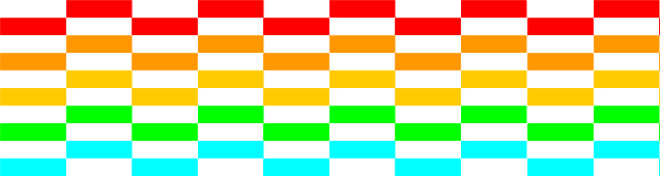
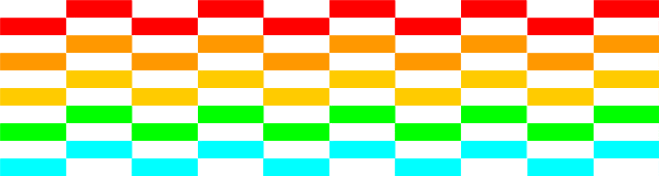
final picture?

diff --git a/20 Problem sets/30 Breakout/10 Breakout!.md b/20 Problem sets/30 Breakout/10 Breakout!.md
@@ -126,7 +126,7 @@ other brick. This extra complexity is more than compensated by the fact that
 there are the same number of bricks in each row, and that you don't have to change
 the coordinate calculation from row to row.
 
-![](breakout6.png)
+![](breakout6checker.png)
 
 For this part of the problem, fill in the functions `createBricks()` and
 `createBrickRow()`. Call these functions in the `run()` to actually add them to
